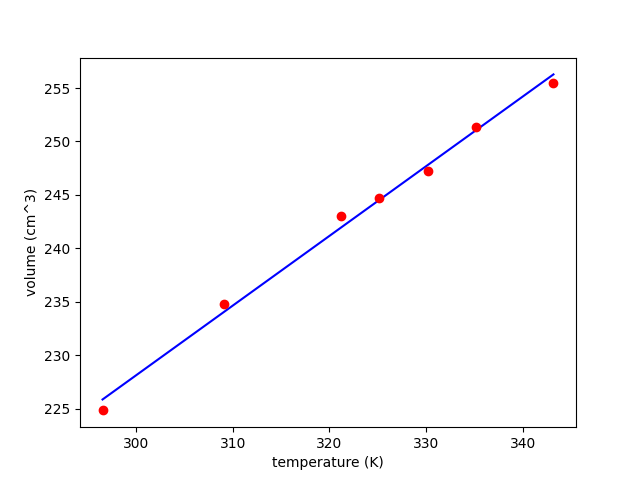
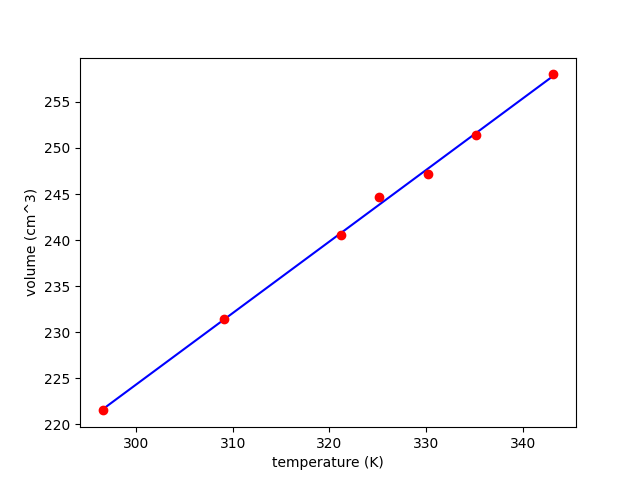
lie again

diff --git a/experiment 5 - Heat Engine/charles_law_analyze.py b/experiment 5 - Heat Engine/charles_law_analyze.py
@@ -15,7 +15,7 @@ volume = height/10 * piston_area + 190 #in cm^3
 volume = volume.astype(np.float32)
 temperature = temperature.astype(np.float32)
 
-c = np.array([volume[0]/temperature[0], 0], dtype=np.float32)
+c = np.array([0.75, 0], dtype=np.float32)
 
 def relation(t):
     return c[0] * t + c[1]
